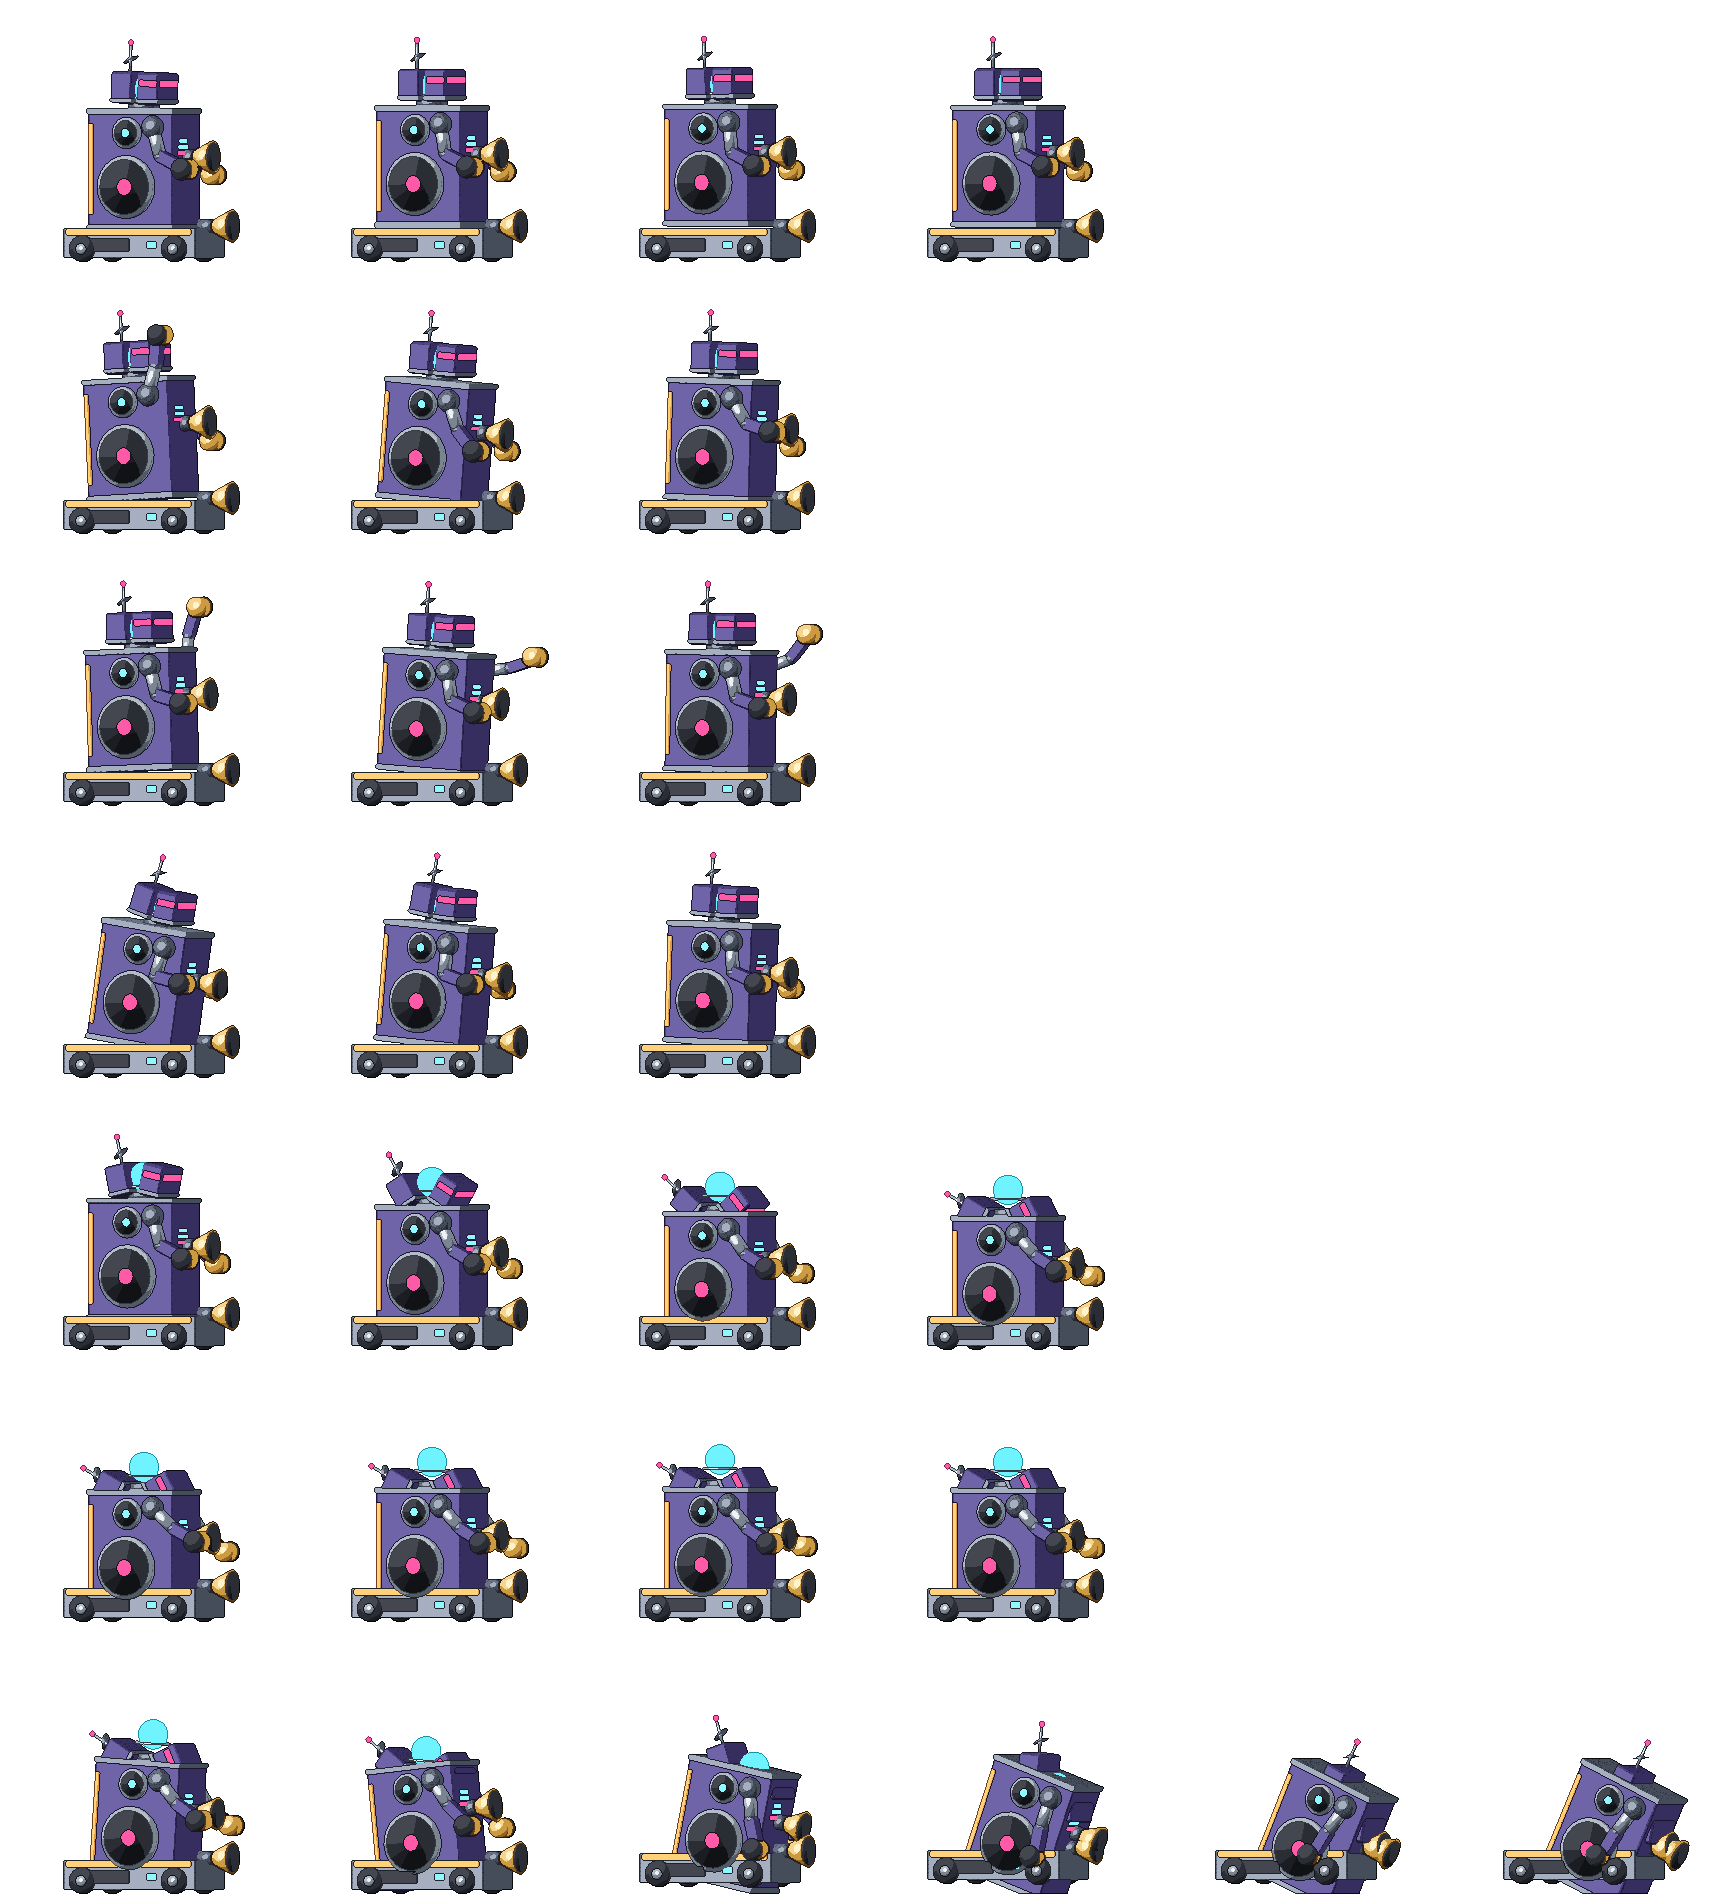
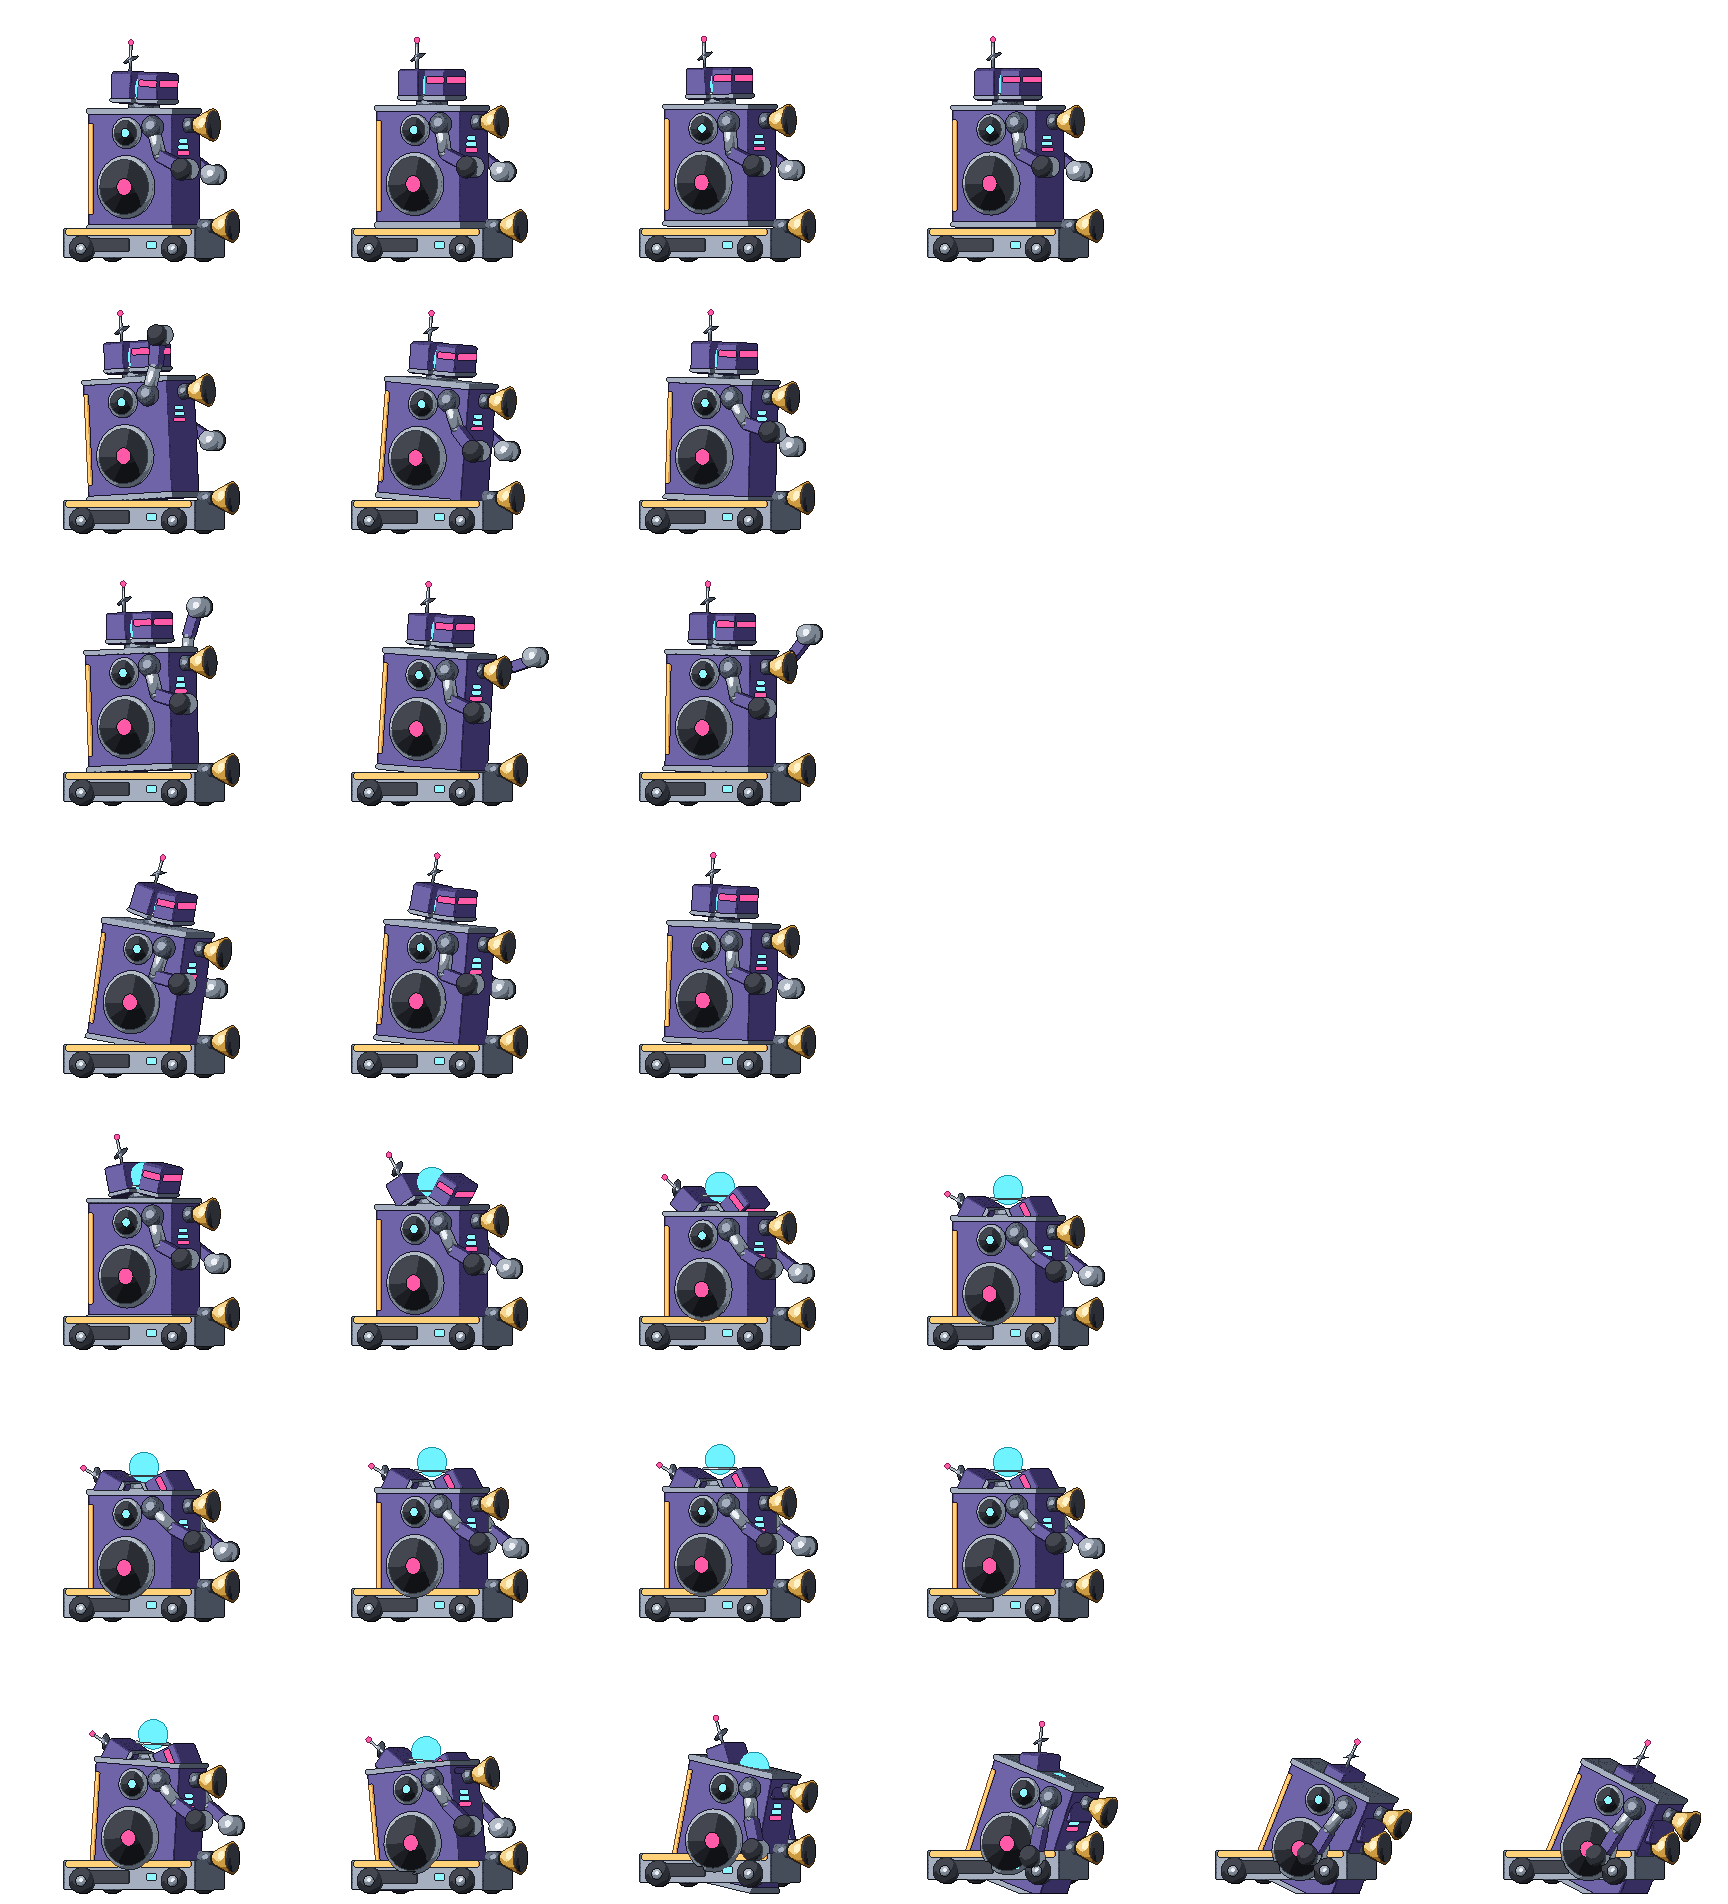
Boss fight runner mode: stage scrolls at note speed, divider catwalk between lanes, lane stays until switched; upper lane raised to 140px (boss air horn re-rendered)

diff --git a/playground/tools/gen_m07_beat_tower.py b/playground/tools/gen_m07_beat_tower.py
@@ -78,7 +78,7 @@ BOSS_ARENA = {
     "floor_y": FLOOR_Y,
     "judge_x": STAGE_LEFT + 9 * TS,                 # 判定线：玩家站位（地面画两个判定环）
     "lane_ground_y": FLOOR_Y - 36,                  # 两条音符轨中心（与 Boss 号角口高度一致）
-    "lane_air_y": FLOOR_Y - 108,
+    "lane_air_y": FLOOR_Y - 140,                   # 上层轨：中间隔板（离地 104）之上，隔板顶面即上层站位
     "boss_feet": [STAGE_RIGHT - 6 * TS, FLOOR_Y],   # Boss 精灵脚底中点（atlas 面朝右，运行时水平翻转朝左）
     "player_start": [STAGE_LEFT + 4 * TS, FLOOR_Y],
     "chart": "res://assets/boss/beat_warden_chart.json",

diff --git a/tools/art/enemy3d/beat_warden.py b/tools/art/enemy3d/beat_warden.py
@@ -16,7 +16,7 @@ import bl_rig as R  # noqa: E402
 ANIMS = {"idle": 4, "fire_ground": 3, "fire_air": 3, "hurt": 3, "expose": 4, "core": 4, "death": 6}
 R.RES_X, R.RES_Y, R.BASELINE = 288, 272, 262
 BODY_Z = 34.0                     # 音箱柜底面离地高度（坐在底座上）
-GROUND_LANE_Z, AIR_LANE_Z = 36.0, 108.0   # 两条音符轨中心离地高度（与运行时一致）
+GROUND_LANE_Z, AIR_LANE_Z = 36.0, 140.0   # 两条音符轨中心离地高度（与运行时一致；上层抬高给中间隔板让位）
 
 
 def _part(name, parent, shape, size, loc=(0, 0, 0), rot=(0, 0, 0), material="armor", rank=0, bevel=0.0,

diff --git a/tools/art/enemy3d/build_enemy.py b/tools/art/enemy3d/build_enemy.py
@@ -86,7 +86,7 @@ SPECS = {
         },
         "ground_snap": "all",
         "extra": {"source": "tools/art/enemy3d/beat_warden.py（原创 Blender 基本体模型，3D→像素）",
-                  "lanes_above_ground": {"ground": 36, "air": 108}},
+                  "lanes_above_ground": {"ground": 36, "air": 140}},
     },
 }
 
